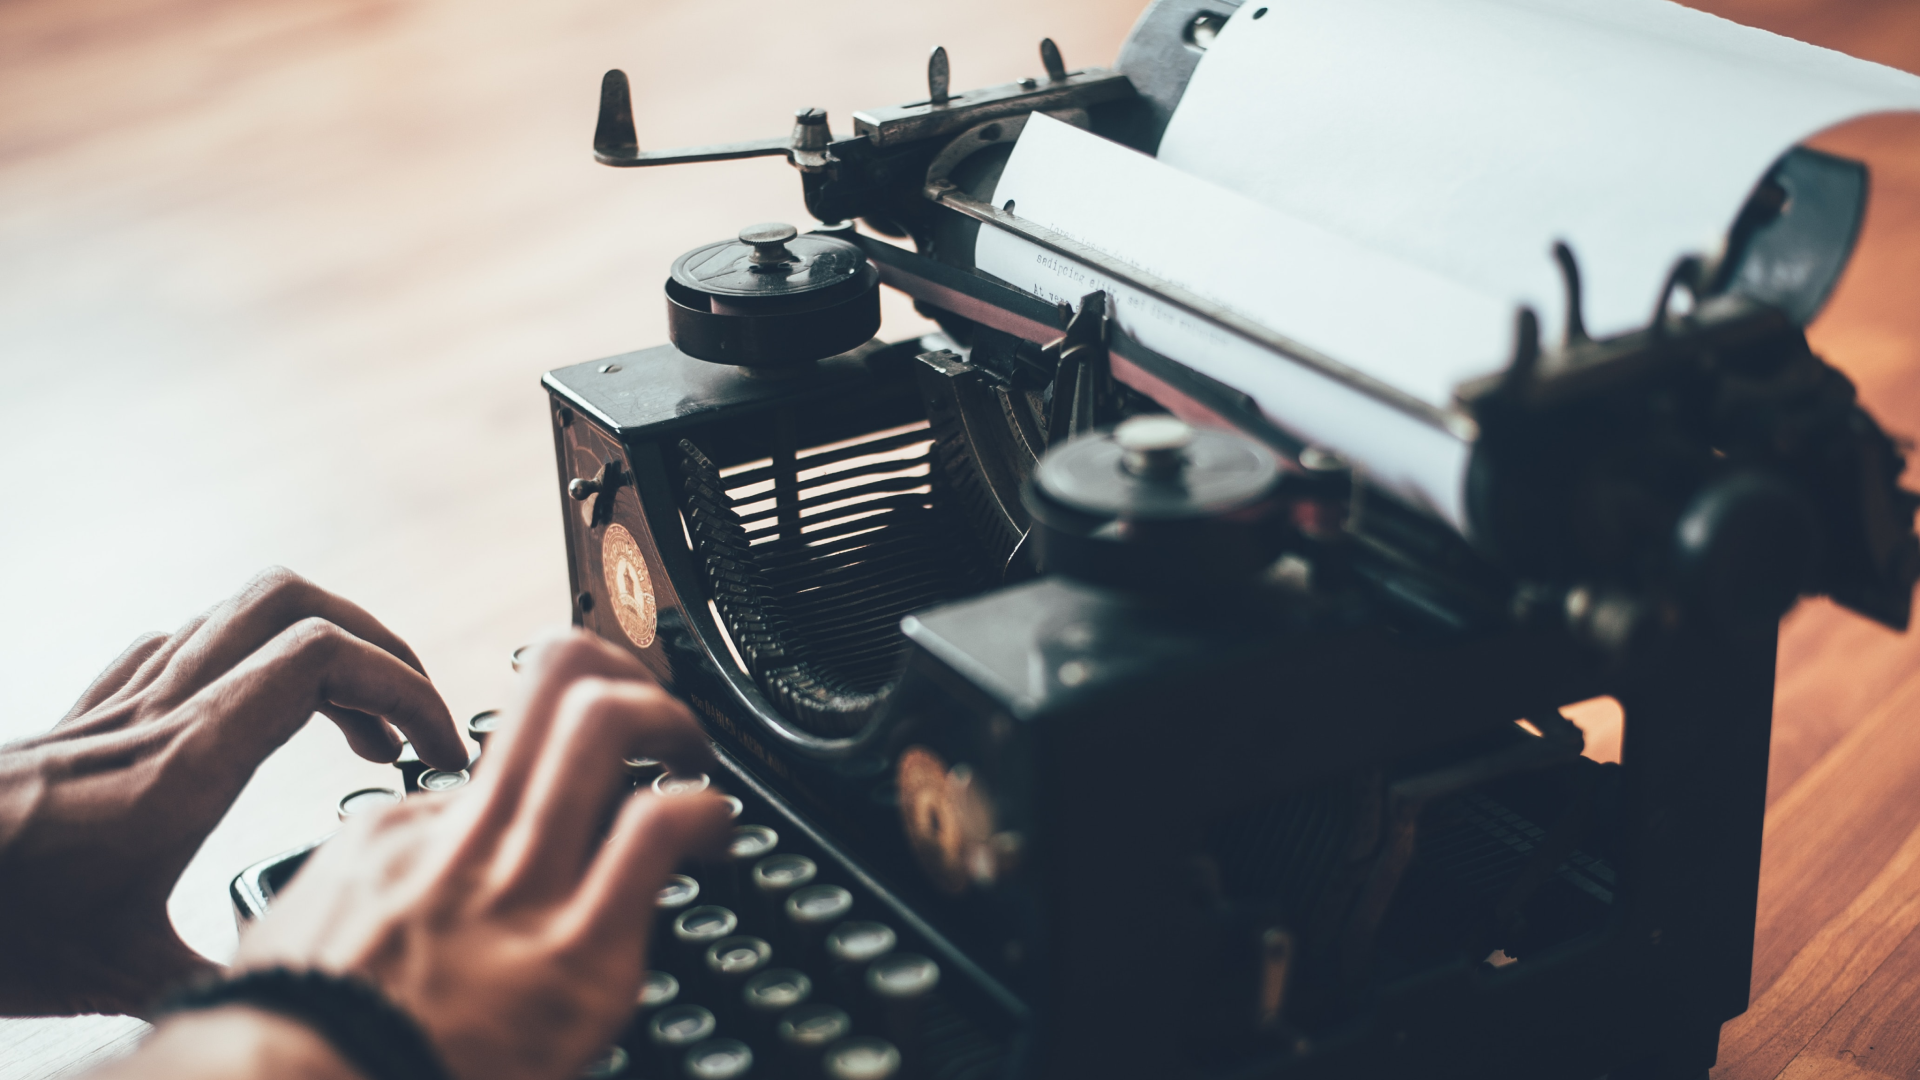
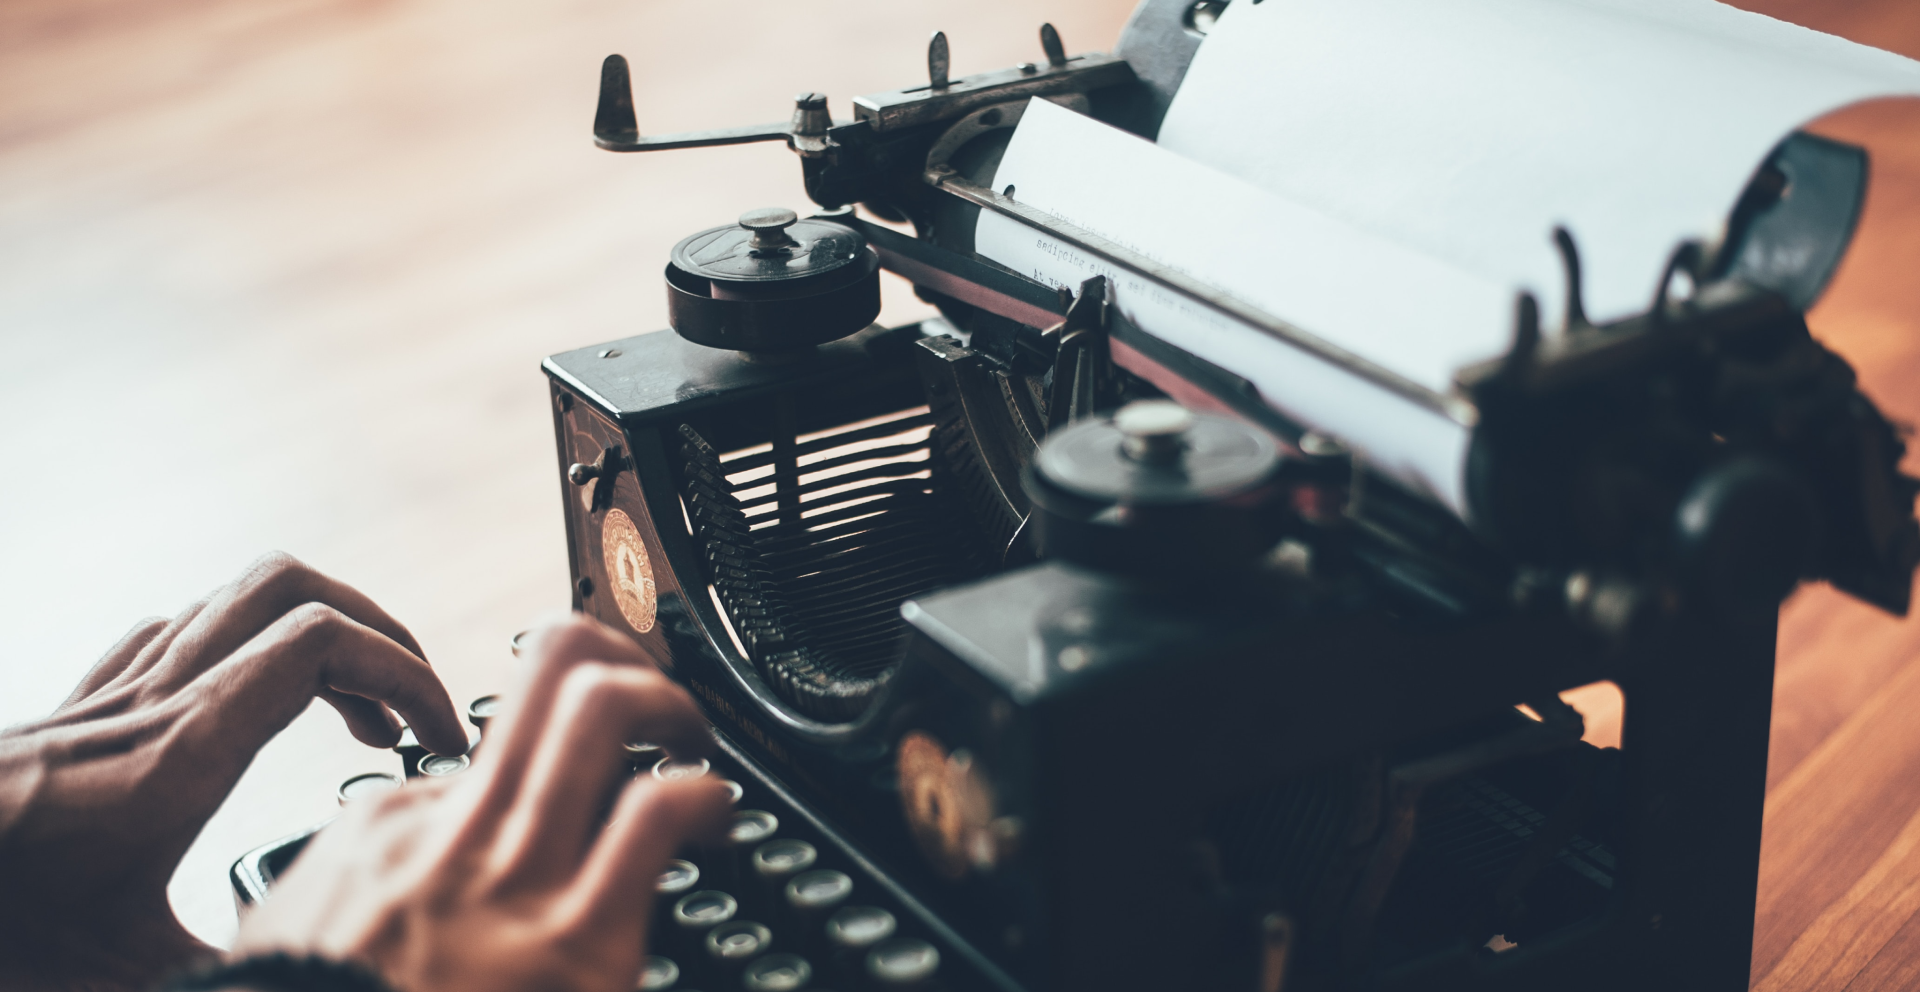
feat: data-pause set false and hero section images resized

diff --git a/index.html b/index.html
@@ -94,7 +94,7 @@
         <div class="container-fluid">
           <div class="row justify-content-center carousel-section">
             <div class="col-12 text-center">
-              <div id="carouselExampleControls" class="carousel slide" data-ride="carousel" data-interval="2000">
+              <div id="carouselExampleControls" class="carousel slide" data-ride="carousel" data-interval="2500" data-pause="false">
                 <div class="carousel-inner">
                   <ol class="carousel-indicators">
                     <li data-target="#carouselExampleControls" data-slide-to="0" class="active"></li>
